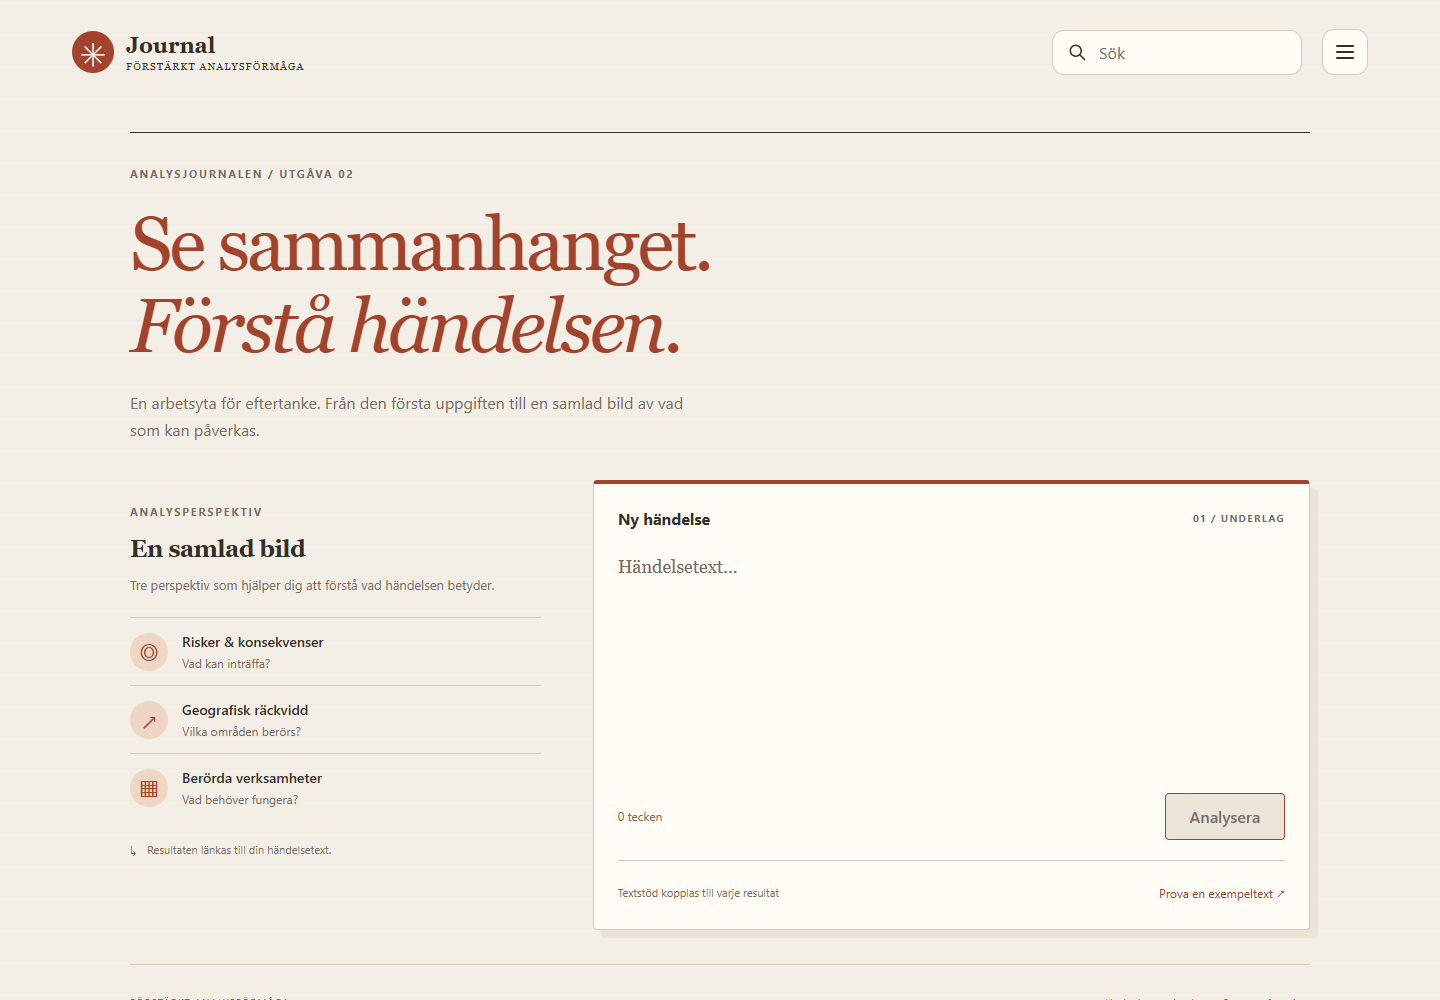
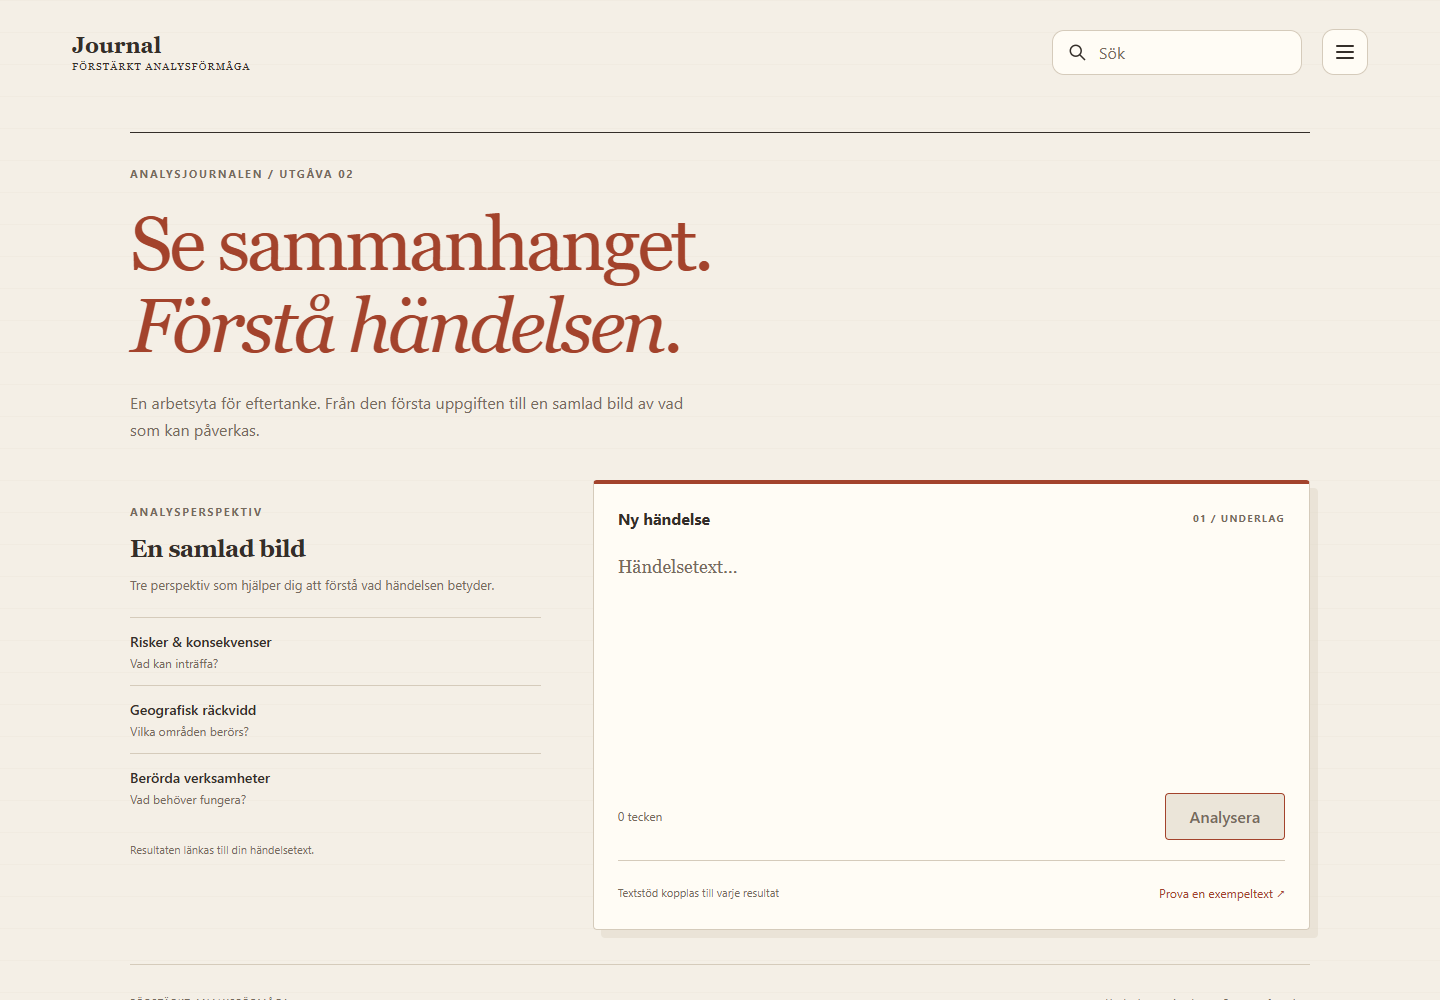
Refine selected editorial design without decorative symbols

diff --git a/frontend/src/App.tsx b/frontend/src/App.tsx
@@ -122,7 +122,6 @@ function App() {
       </dialog>
       <header className="app-toolbar">
       <a className="studio-brand" href="#" onClick={(event) => { event.preventDefault(); setPage('home') }}>
-        <span className="brand-symbol" aria-hidden="true">✳</span>
         <span>Journal<small>Förstärkt analysförmåga</small></span>
       </a>
       {page === 'home' && <div className="search-row">
@@ -181,10 +180,10 @@ function App() {
           <p className="studio-eyebrow">ANALYSPERSPEKTIV</p>
           <h2 id="perspective-title">En samlad bild</h2>
           <p>Tre perspektiv som hjälper dig att förstå vad händelsen betyder.</p>
-          <div className="perspective-card"><span className="perspective-icon" aria-hidden="true">◎</span><div><h3>Risker & konsekvenser</h3><p>Vad kan inträffa?</p></div></div>
-          <div className="perspective-card"><span className="perspective-icon" aria-hidden="true">↗</span><div><h3>Geografisk räckvidd</h3><p>Vilka områden berörs?</p></div></div>
-          <div className="perspective-card"><span className="perspective-icon" aria-hidden="true">▦</span><div><h3>Berörda verksamheter</h3><p>Vad behöver fungera?</p></div></div>
-          <div className="perspective-note"><span aria-hidden="true">↳</span> Resultaten länkas till din händelsetext.</div>
+          <div className="perspective-card"><div><h3>Risker & konsekvenser</h3><p>Vad kan inträffa?</p></div></div>
+          <div className="perspective-card"><div><h3>Geografisk räckvidd</h3><p>Vilka områden berörs?</p></div></div>
+          <div className="perspective-card"><div><h3>Berörda verksamheter</h3><p>Vad behöver fungera?</p></div></div>
+          <div className="perspective-note">Resultaten länkas till din händelsetext.</div>
         </aside>
         </div>
         <footer className="studio-footer"><span>FÖRSTÄRKT ANALYSFÖRMÅGA</span><span>Underlag → Analys → Sammanfattning</span></footer>

diff --git a/frontend/DESIGN.md b/frontend/DESIGN.md
@@ -3,6 +3,8 @@
 Branch: `codex/design-editorial`. Based on `designprototype`.
 Ivory and terracotta editorial.
 
+Selected by the user after comparison. Decorative brand and perspective symbols removed; retain the editorial typography and palette. The canvas draft also removes decorative information/arrow icons and unsupported operational claims.
+
 ## Preview
 From this worktree's `frontend` directory run `pnpm dev --port 5175`.
 Use the existing backend for live analysis. The sample-text button fills the composer; submitting it uses the existing analysis endpoint.
